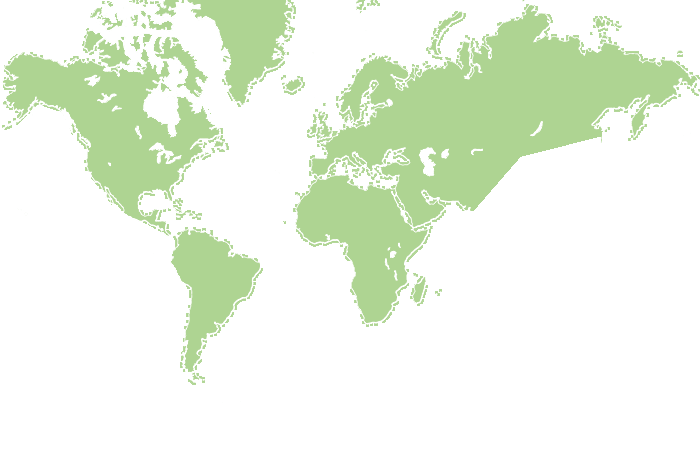
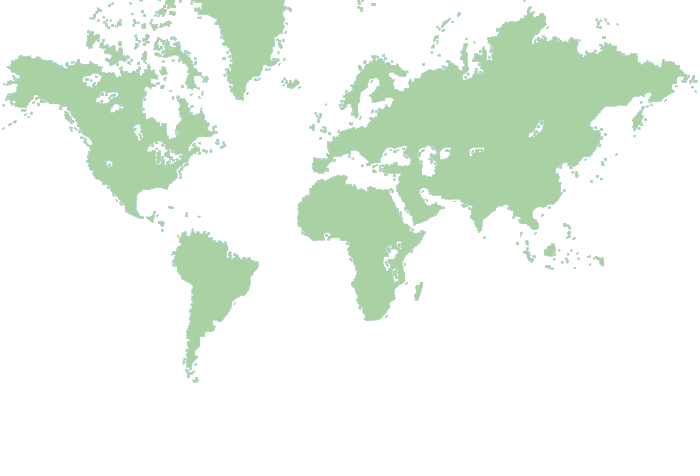
use actual countries :D

diff --git a/footer.php b/footer.php
@@ -64,8 +64,8 @@ if ( !isset($_COOKIE['greentv_location']) || $_COOKIE['greentv_location'] == 'un
         <img src="<?php bloginfo( 'template_directory' ); ?>/images/trans.png" id="trans-map" width="700" height="476" usemap="#image_map" />
 
         <map name="image_map" id="image_map">
-            <area href="?set_location=en" shape="poly" coords=" 1,1, 576,1, 646,25, 634,44, 668,48, 681,46, 690,57, 697,100, 629,141, 607,126, 514,150, 467,198, 461,210, 448,211, 452,301, 399,315, 366,327, 344,300, 348,272, 332,249, 294,243, 279,210, 304,147, 309,112, 325,99, 367,50, 392,50, 413,66, 424,54, 438,17, 429,6, 296,8, 289,67, 305,77, 302,93, 285,100, 273,75, 259,86, 250,102, 236,107, 218,72, 209,91, 208,107, 230,146, 227,152, 182,191, 203,214, 214,233, 239,240, 239,249, 265,261, 257,278, 250,300, 200,366, 205,379, 191,385, 180,367, 188,287, 172,259, 174,236, 113,204, 83,165, 64,110, 35,101, 14,123, 2,130, 4,63, 26,47, 61,56, 79,56, 93,5" class="world-map" rel="world-en" alt="red hotspot"/>
-            <area href="http://sp.green.tv?set_location=sp" shape="poly" coords=" 456,303, 454,215, 465,215, 518,154, 608,131, 628,150, 597,183, 579,199, 568,209, 582,242, 606,256, 621,255, 645,268, 618,276, 624,289, 629,315, 677,332, 659,362, 642,352, 662,335, 627,319, 617,345, 610,340, 600,328, 583,316, 550,327, 548,295, 573,281, 535,265, 512,245, 514,224, 502,210, 483,225, 488,240, 477,233, 467,218" rel="world-sp" class="world-map" alt="green hotspot"/>
+            <area href="?set_location=en" shape="poly" coords="26,47, 64,63, 78,52, 84,27, 89,14, 105,1, 295,0, 543,1, 553,28, 549,37, 579,30, 599,14, 626,27, 615,42, 642,47, 651,54, 673,55, 687,45, 684,68, 698,76, 695,88, 650,114, 636,143, 624,114, 603,127, 611,146, 619,169, 597,181, 585,196, 570,192, 568,219, 577,236, 587,249, 602,253, 604,271, 577,270, 539,270, 511,244, 517,231, 504,210, 487,223, 488,241, 481,242, 467,219, 463,207, 441,202, 447,209, 436,222, 417,229, 428,230, 404,261, 409,277, 426,277, 421,301, 418,303, 413,291, 407,284, 398,294, 398,305, 392,306, 384,324, 360,325, 348,282, 345,244, 311,247, 293,224, 297,195, 317,176, 309,171, 311,158, 327,158, 311,133, 312,108, 337,98, 361,65, 383,52, 408,70, 430,53, 427,44, 447,18, 464,10, 295,6, 283,63, 284,81, 300,78, 307,89, 293,97, 276,87, 277,66, 243,105, 206,83, 203,109, 225,146, 181,177, 174,201, 207,216, 229,241, 234,253, 262,263, 252,281, 248,300, 238,304, 195,371, 204,380, 193,383, 179,366, 191,286, 176,279, 169,259, 176,239, 166,236, 146,219, 136,221, 89,172, 87,140, 65,109, 38,102, 4,131, 2,64, 24,47" class="world-map" rel="world-en" alt="red hotspot"/>
+            <area href="http://sp.green.tv?set_location=sp" shape="poly" coords=" 62,474, 85,464, 121,468, 125,456, 178,458, 184,440, 219,406, 213,472, 285,473, 297,457, 328,439, 394,439, 431,424, 480,439, 490,424, 585,422, 646,450, 659,454, 649,475, 698,474, 698,338, 671,338, 657,357, 650,353, 663,322, 648,292, 628,303, 615,348, 587,319, 551,327, 546,295, 580,274, 607,274, 604,252, 698,256, 698,337" rel="world-sp" class="world-map" alt="green hotspot"/>
         </map>
     </div>
 <?php endif; ?>
